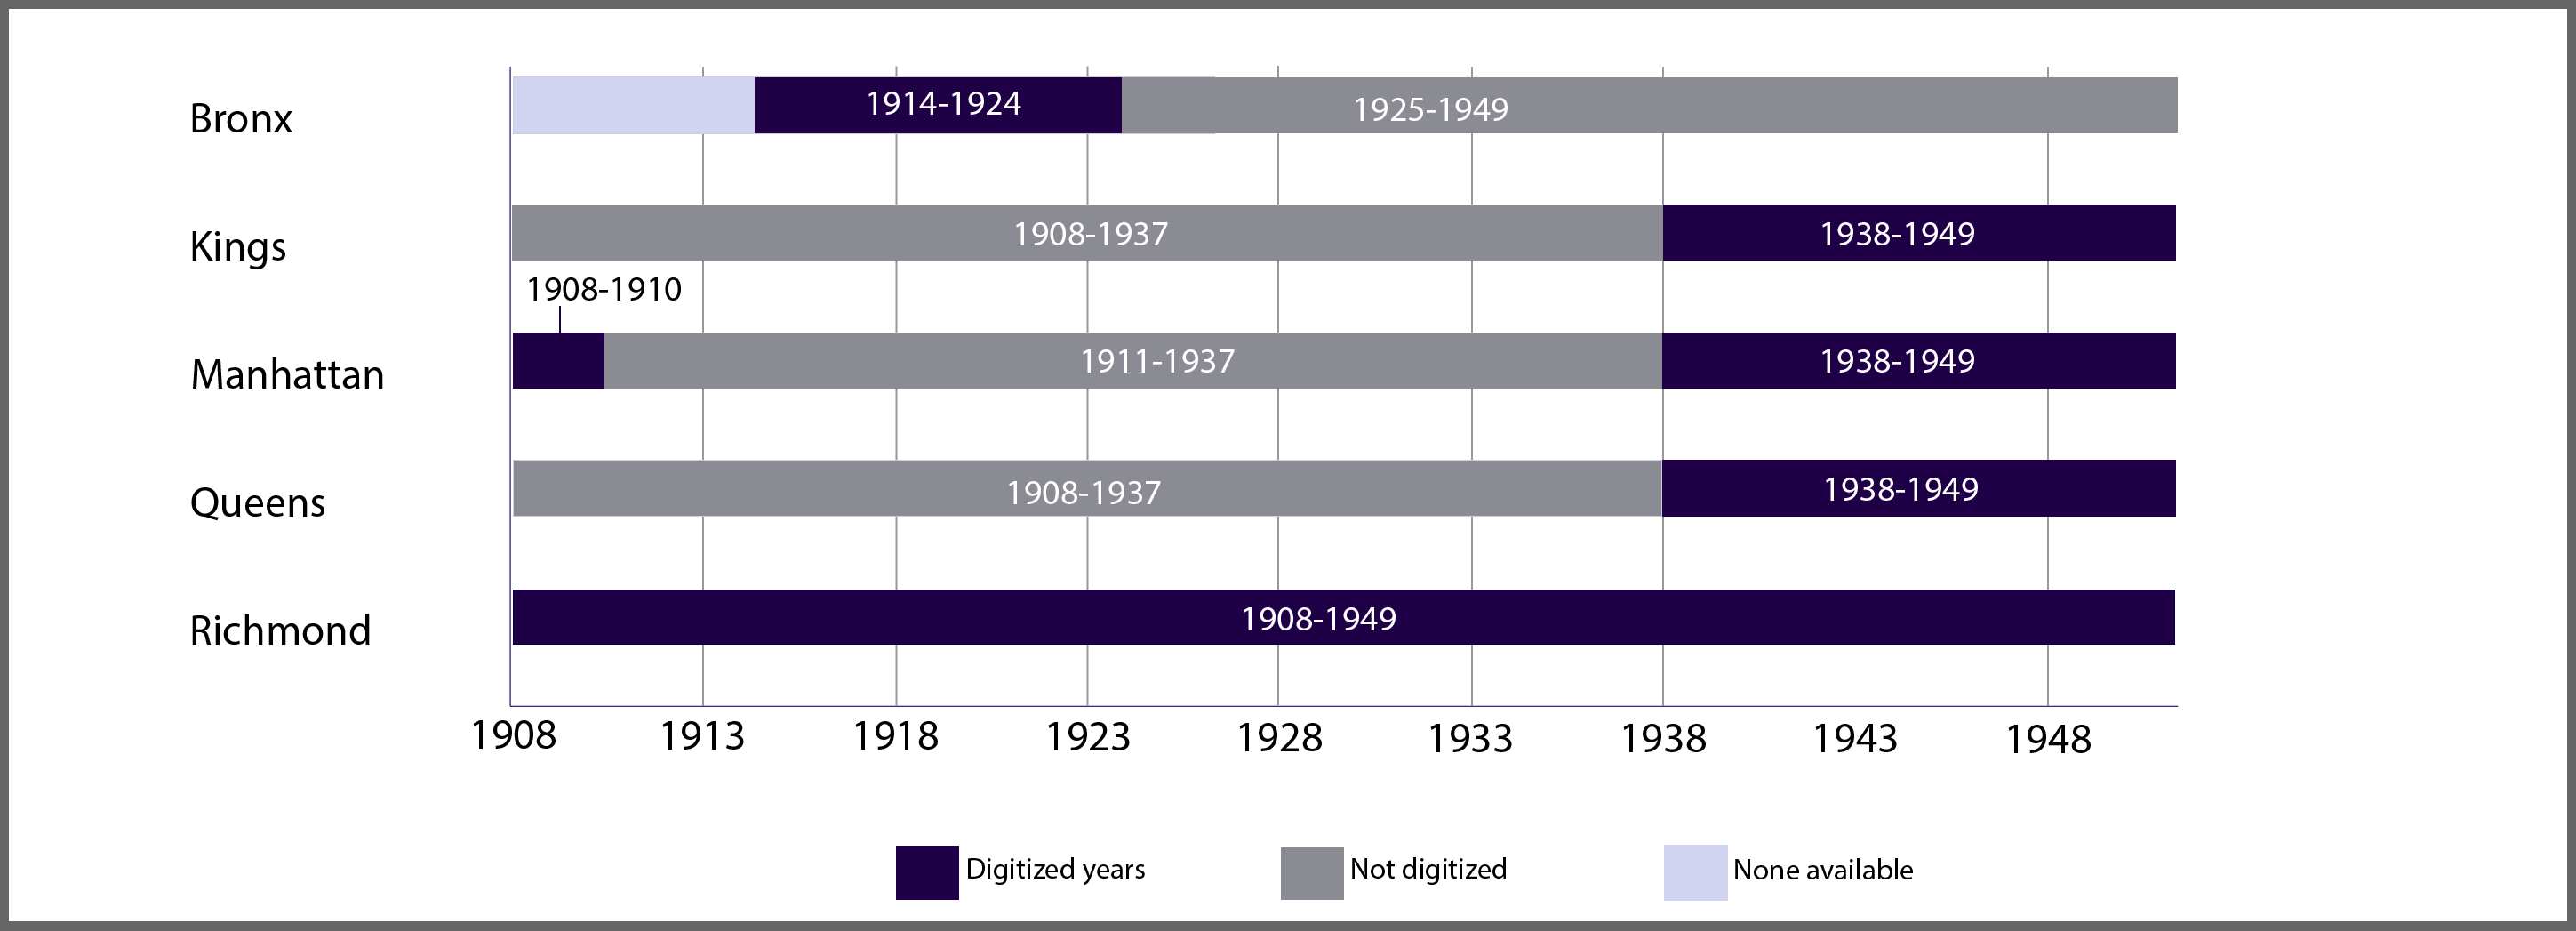
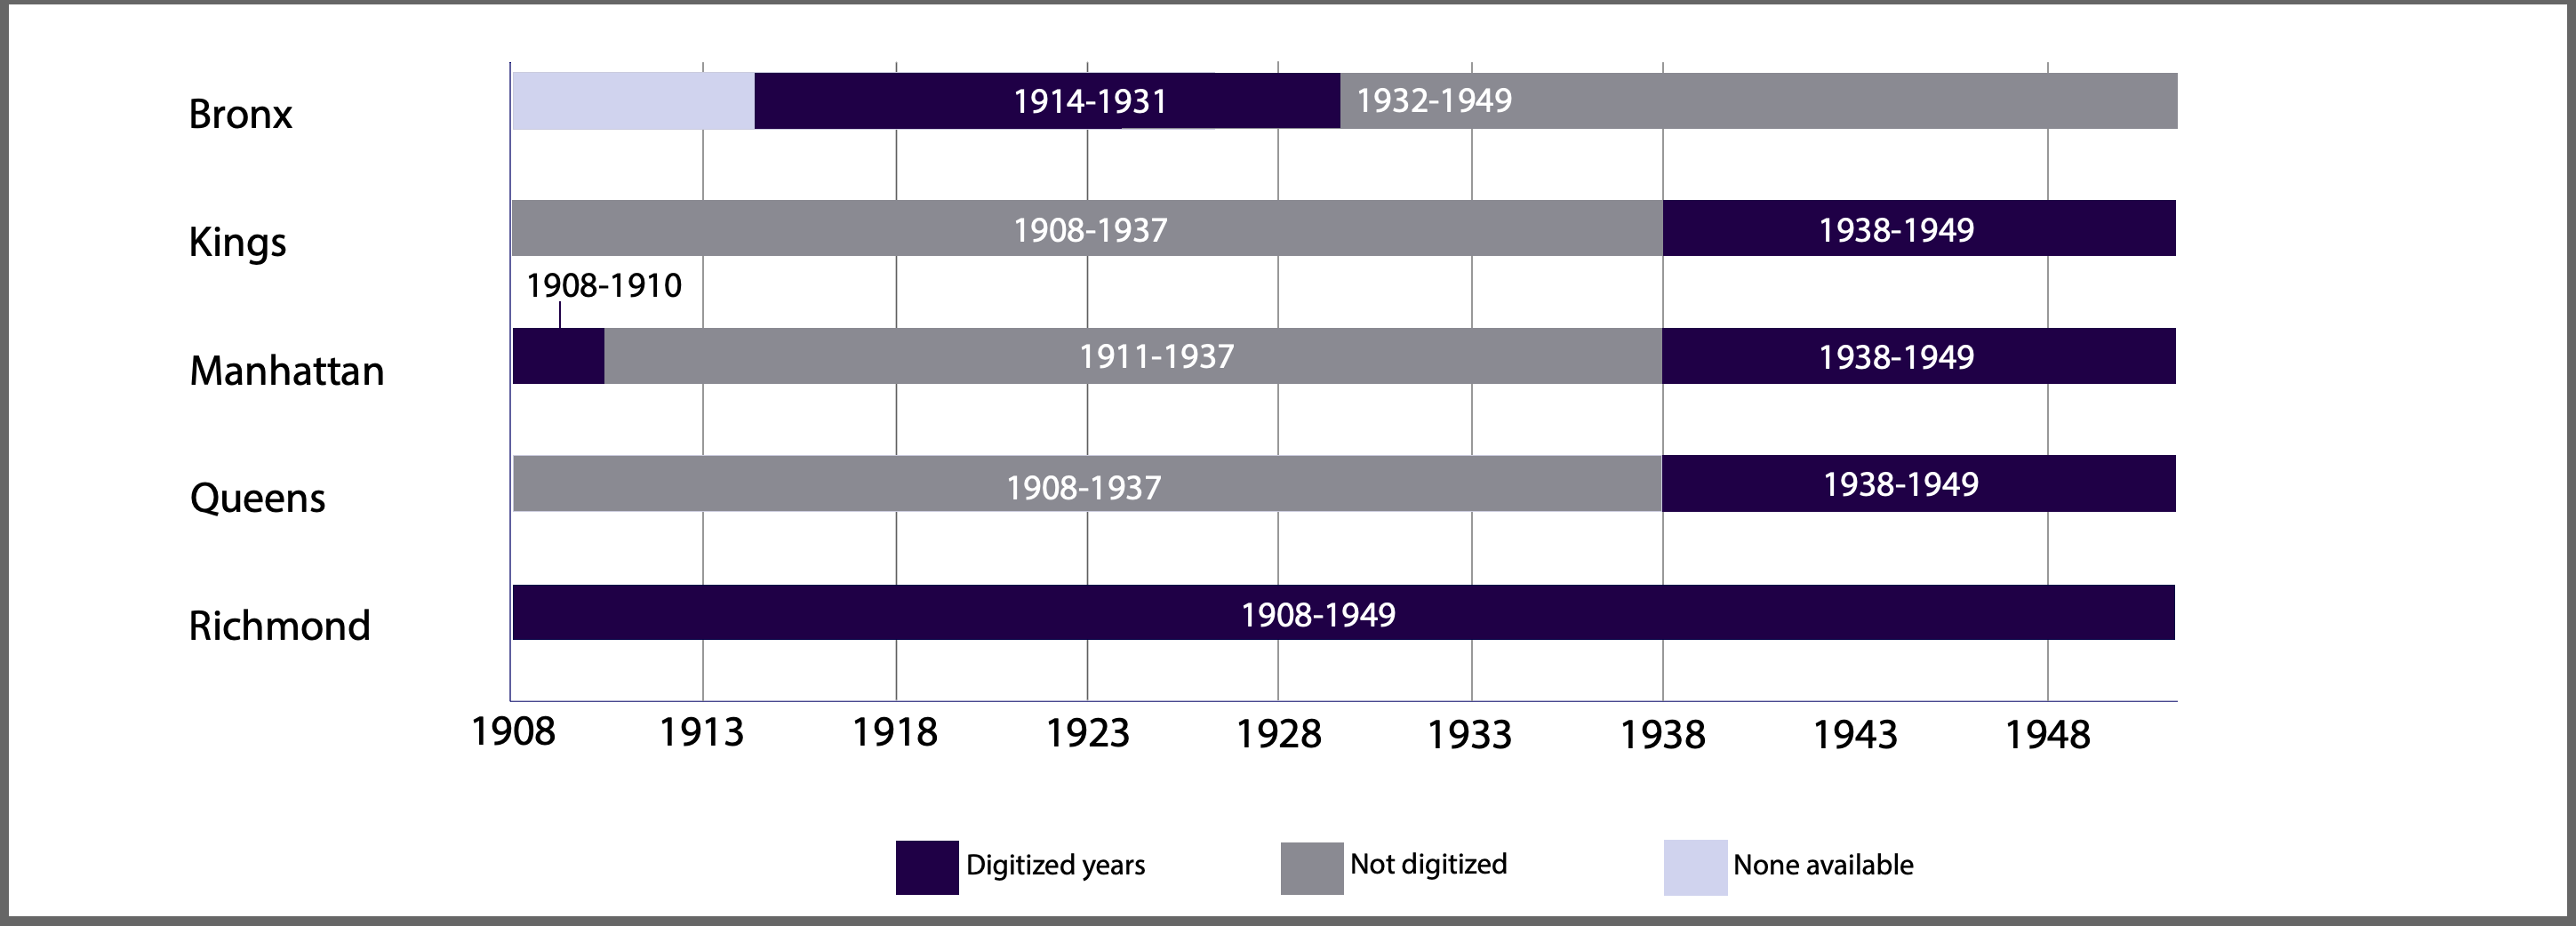
Updated marriage license

diff --git a/vro/templates/public/digital_vital_records.html b/vro/templates/public/digital_vital_records.html
@@ -106,7 +106,7 @@
                              alt="Chart for digitized marriage certificates">
                         <hr>
                         <h3 class="h5 py-1">Digitized Marriage Licenses</h3>
-                        <p><b>Bronx:</b> 1914 to 1924</p>
+                        <p><b>Bronx:</b> 1914 to 1931</p>
                         <p><b>Kings (Brooklyn):</b> 1938 to 1949</p>
                         <p><b>Manhattan:</b> 1908 to 1910, 1938 to 1949</p>
                         <p><b>Queens:</b> 1938 to 1949</p>